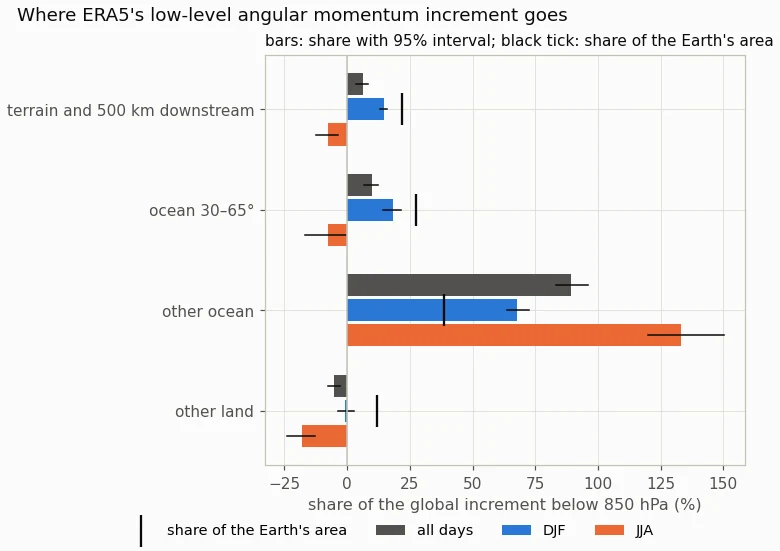
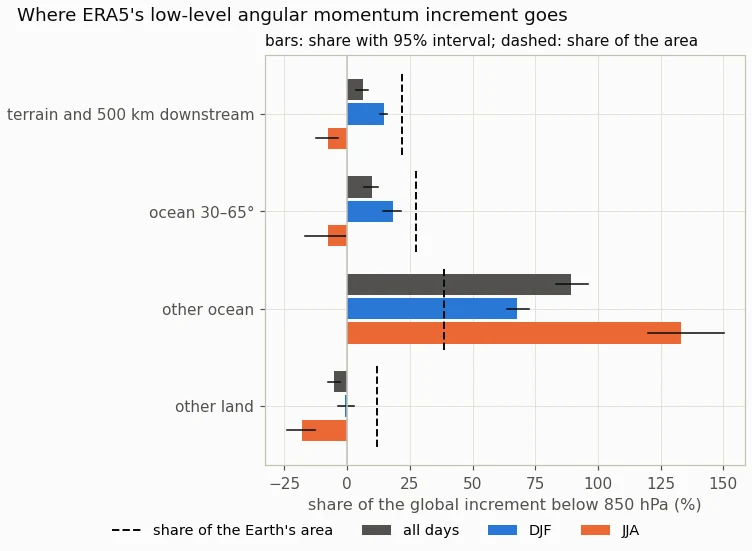
torque-enso: AAM peak lag in months, wording fixes, minus signs in the region table, area marker spans each group; page builder re-stamps chrome
Claude-Session: https://claude.ai/code/session_01XNh8pbXM7FCZppdye7QTLx

diff --git a/torque-enso.html b/torque-enso.html
@@ -304,7 +304,7 @@
   the middle latitudes of both hemispheres, from the surface to the tropopause (Seager et al., 2003). By the thermal-wind relation a
   warmer tropics against cooler subtropics means stronger westerly shear on the equatorward side of the subtropical jets, so the
   westerlies in the upper troposphere strengthen there, in both hemispheres. In ERA5 the global angular momentum regressed on Niño-3.4
-  peaks 1 day after the Niño-3.4 anomaly at +0.69 ×10²⁵ kg m² s⁻¹ per kelvin, about
+  peaks 1 month after the Niño-3.4 anomaly at +0.69 ×10²⁵ kg m² s⁻¹ per kelvin, about
   0.11 ms of length of day per kelvin.</p>
   <p><b>How the momentum gets in.</b> All of it has to come through the surface:</p>
   <p>$$\frac{dM}{dt} = T_{\text{mountain}} + T_{\text{friction}} + T_{\text{gravity-wave drag}},\qquad
@@ -523,7 +523,7 @@
   <figure id='fig13'><a href='/studies/torque-enso/inc_section.webp' class='zoom'><img src='/studies/torque-enso/inc_section.webp' alt="Latitude by pressure sections of the wind-term angular momentum increment per layer at the two window starts, troposphere and stratosphere on separate scales" loading='lazy'></a><figcaption><b>Figure 13.</b> The wind-term increment by latitude and layer at the two window starts: the angular momentum each 5° band and pressure layer gains, in units that sum to the column. Below: 1000–100 hPa on an axis linear in pressure (so in mass); above it, 100–1 hPa on its own scale. Hatched where not significant (10-day block bootstrap, FDR 10% over the cells with data).</figcaption></figure>
   <p><b>By height.</b> The vertical sum of the 37-level increment follows the column estimate from the surface fields closely (correlation
   0.997 across bands and days) but is about 15% larger (+0.058 against
-  +0.050 per window), as expected from summing 37 pressure levels with their lowest layer clipped at the surface rather than
+  +0.050 per window), probably from summing 37 pressure levels with their lowest layer clipped at the surface rather than
   integrating the model levels exactly. Of the wind-term increment, the largest share goes into the layers below 850 hPa
   (79% and 77% of the section's cells with data are significant):</p>
   <div class='tw'><table class='res'><thead><tr><th>wind-term increment, 10²⁵ kg m² s⁻¹ per window</th><th>09 UTC start</th><th>21 UTC start</th></tr></thead><tbody><tr><th scope='row'>stratosphere (above 100 hPa)</th><td>+0.005 <span class='sig'>[+0.004, +0.006]</span></td><td>+0.005 <span class='sig'>[+0.004, +0.006]</span></td></tr><tr><th scope='row'>upper troposphere (100–400 hPa)</th><td>+0.011 <span class='sig'>[+0.008, +0.014]</span></td><td>+0.017 <span class='sig'>[+0.014, +0.020]</span></td></tr><tr><th scope='row'>middle troposphere (400–850 hPa)</th><td>+0.011 <span class='sig'>[+0.007, +0.014]</span></td><td>+0.013 <span class='sig'>[+0.008, +0.019]</span></td></tr><tr><th scope='row'>below 850 hPa</th><td>+0.030 <span class='sig'>[+0.028, +0.032]</span></td><td>+0.022 <span class='sig'>[+0.020, +0.025]</span></td></tr><tr class='diff'><th scope='row'>all 37 levels</th><td>+0.057</td><td>+0.058</td></tr></tbody></table></div>
@@ -537,16 +537,16 @@
   <h3>Where the low-level increment goes</h3>
   <figure id='fig14'><a href='/studies/torque-enso/inc_maps_u.webp' class='zoom'><img src='/studies/torque-enso/inc_maps_u.webp' alt="World maps of the mean zonal-wind increment at 925 and 850 hPa with terrain contours" loading='lazy'></a><figcaption><b>Figure 14.</b> The mean increment of the zonal wind at 925 hPa (top) and 850 hPa (bottom), both window starts together, per day; shaded only where significant (t-test with an effective sample size from the lag-one autocorrelation, FDR 10% over the map). Contours: terrain at 500, 1500 and 3000 m.</figcaption></figure>
   <figure id='fig15'><a href='/studies/torque-enso/inc_maps_amL_season.webp' class='zoom'><img src='/studies/torque-enso/inc_maps_amL_season.webp' alt="World maps of the angular momentum increment of the layers at and below 850 hPa in December to February and June to August" loading='lazy'></a><figcaption><b>Figure 15.</b> The angular momentum increment of the layers at and below 850 hPa, per 2.5° cell and day, in DJF (top) and JJA (bottom); shaded only where significant (FDR 10%). Terrain contours as in the previous figure.</figcaption></figure>
-  <p>The maps test the user-facing hypothesis directly: if ERA5's model lost momentum mainly to excess low-level orographic drag
+  <p>The maps test the drag hypothesis directly: if ERA5's model lost momentum mainly to excess low-level orographic drag
   (blocking and turbulent orographic form drag), the low-level increments would sit over and just downstream of the Rockies, the Andes,
   Tibet, the East African highlands and the Antarctic margins. They do not. At 925 hPa the analysis adds westerly momentum over most of
-  the trade-wind oceans and the Southern Ocean; at 850 hPa it removes it over the subtropical oceans, the upper half of the dipole in
+  the trade-wind oceans and around Antarctica; at 850 hPa it removes it over the subtropical oceans, the upper half of the dipole in
   Figure 13. In the zonal mean the 1000 hPa wind is increased by +0.31 m s⁻¹ a day at 10–30° (weaker trade
   easterlies) and decreased by −0.14 m s⁻¹ at 40–60° (weaker surface westerlies); the 10 m wind likewise
   (+0.18 and −0.11). Over the mid-latitude oceans the analysis adds westerlies from 925 hPa up
   (+0.08 m s⁻¹ a day at 40–60°), while at 850 hPa between 40 and 55°N it removes them (−0.11).</p>
-  <figure id='fig16'><a href='/studies/torque-enso/inc_maps_split.webp' class='zoom'><img src='/studies/torque-enso/inc_maps_split.webp' alt="Bar chart of the share of the global low-level angular momentum increment falling in four regions, for all days, DJF and JJA, against each region's share of the Earth's area" loading='lazy'></a><figcaption><b>Figure 16.</b> The share of the global increment of angular momentum below 850 hPa that falls in each region, all days and by season, with 95% block-bootstrap intervals over days; the black ticks mark each region's share of the Earth's area. Regions are defined at 0.25° from ERA5's orography, its subgrid-orography standard deviation and its land-sea mask.</figcaption></figure>
-  <div class='tw'><table class='res'><thead><tr><th>share of the increment</th><th>area</th><th>below 850 hPa, all days</th><th>DJF</th><th>JJA</th><th>whole column</th></tr></thead><tbody><tr><th scope='row'>terrain above 1000 m or rough subgrid orography, and 500 km downstream</th><td>22%</td><td>6% [4, 8]</td><td>15% [13, 16]</td><td>-7% [-12, -4]</td><td>14% [12, 15]</td></tr><tr><th scope='row'>ocean 30–65°</th><td>28%</td><td>10% [7, 12]</td><td>18% [14, 22]</td><td>-8% [-17, -0]</td><td>56% [54, 59]</td></tr><tr><th scope='row'>other ocean (tropics, subtropics, polar)</th><td>39%</td><td>89% [83, 96]</td><td>68% [64, 73]</td><td>133% [120, 150]</td><td>24% [21, 26]</td></tr><tr><th scope='row'>other land</th><td>12%</td><td>-5% [-8, -3]</td><td>-1% [-3, 3]</td><td>-18% [-24, -13]</td><td>6% [5, 8]</td></tr></tbody></table></div>
+  <figure id='fig16'><a href='/studies/torque-enso/inc_maps_split.webp' class='zoom'><img src='/studies/torque-enso/inc_maps_split.webp' alt="Bar chart of the share of the global low-level angular momentum increment falling in four regions, for all days, DJF and JJA, against each region's share of the Earth's area" loading='lazy'></a><figcaption><b>Figure 16.</b> The share of the global increment of angular momentum below 850 hPa that falls in each region, all days and by season, with 95% block-bootstrap intervals over days; the dashed lines mark each region's share of the Earth's area. Regions are defined at 0.25° from ERA5's orography, its subgrid-orography standard deviation and its land-sea mask.</figcaption></figure>
+  <div class='tw'><table class='res'><thead><tr><th>share of the increment</th><th>area</th><th>below 850 hPa, all days</th><th>DJF</th><th>JJA</th><th>whole column</th></tr></thead><tbody><tr><th scope='row'>terrain above 1000 m or rough subgrid orography, and 500 km downstream</th><td>22%</td><td>6% [4, 8]</td><td>15% [13, 16]</td><td>−7% [−12, −4]</td><td>14% [12, 15]</td></tr><tr><th scope='row'>ocean 30–65°</th><td>28%</td><td>10% [7, 12]</td><td>18% [14, 22]</td><td>−8% [−17, 0]</td><td>56% [54, 59]</td></tr><tr><th scope='row'>other ocean (tropics, subtropics, polar)</th><td>39%</td><td>89% [83, 96]</td><td>68% [64, 73]</td><td>133% [120, 150]</td><td>24% [21, 26]</td></tr><tr><th scope='row'>other land</th><td>12%</td><td>−5% [−8, −3]</td><td>−1% [−3, 3]</td><td>−18% [−24, −13]</td><td>6% [5, 8]</td></tr></tbody></table></div>
   <p class="tcap">"Rough terrain" is terrain above 1000 m or an ERA5 subgrid-orography standard deviation above 100 m, extended 500 km
   east (downstream); the four regions add up to the globe. With terrain above 1000 m alone the low-level share is
   3% [2, 4] (14% of the area); with the subgrid criterion alone 7% [4, 8]

diff --git a/scripts/mjo/src/torque_enso_page.py b/scripts/mjo/src/torque_enso_page.py
@@ -277,7 +277,9 @@ def main() -> int:
 
     def share(var, s, r):
         v = sp_[f"{var}_{s}_{r}"]
-        return f"{100 * v['share']:.0f}% [{100 * v['lo']:.0f}, {100 * v['hi']:.0f}]"
+        def pc(x):
+            return f"{round(100 * x) + 0:.0f}".replace("-", "−")
+        return f"{pc(v['share'])}% [{pc(v['lo'])}, {pc(v['hi'])}]"
     import xarray as xr
     zm = xr.open_dataset(S.REF / "torque_u37maps_2025_2026.nc")
     zlat = zm.lat.values
@@ -410,7 +412,7 @@ def main() -> int:
   the middle latitudes of both hemispheres, from the surface to the tropopause (Seager et al., 2003). By the thermal-wind relation a
   warmer tropics against cooler subtropics means stronger westerly shear on the equatorward side of the subtropical jets, so the
   westerlies in the upper troposphere strengthen there, in both hemispheres. In ERA5 the global angular momentum regressed on Niño-3.4
-  peaks {dd(aam_peak_lag)} after the Niño-3.4 anomaly at {num(aam_peak, 2)} ×10²⁵ kg m² s⁻¹ per kelvin, about
+  peaks {abs(aam_peak_lag)} month{'' if abs(aam_peak_lag) == 1 else 's'} {'after' if aam_peak_lag > 0 else 'before'} the Niño-3.4 anomaly at {num(aam_peak, 2)} ×10²⁵ kg m² s⁻¹ per kelvin, about
   {aam_peak * LODMS:.2f} ms of length of day per kelvin.</p>
   <p><b>How the momentum gets in.</b> All of it has to come through the surface:</p>
   <p>$$\\frac{{dM}}{{dt}} = T_{{\\text{{mountain}}}} + T_{{\\text{{friction}}}} + T_{{\\text{{gravity-wave drag}}}},\\qquad
@@ -629,7 +631,7 @@ def main() -> int:
   {fig("incsection", "inc_section.webp", "Latitude by pressure sections of the wind-term angular momentum increment per layer at the two window starts, troposphere and stratosphere on separate scales", "The wind-term increment by latitude and layer at the two window starts: the angular momentum each 5° band and pressure layer gains, in units that sum to the column. Below: 1000–100 hPa on an axis linear in pressure (so in mass); above it, 100–1 hPa on its own scale. Hatched where not significant (10-day block bootstrap, FDR 10% over the cells with data).")}
   <p><b>By height.</b> The vertical sum of the 37-level increment follows the column estimate from the surface fields closely (correlation
   {u10['corr_column_vs_2d']:.3f} across bands and days) but is about {100 * (col37 / col2d - 1):.0f}% larger ({num(col37, 3)} against
-  {num(col2d, 3)} per window), as expected from summing 37 pressure levels with their lowest layer clipped at the surface rather than
+  {num(col2d, 3)} per window), probably from summing 37 pressure levels with their lowest layer clipped at the surface rather than
   integrating the model levels exactly. Of the wind-term increment, the largest share goes into the layers below 850 hPa
   ({fsec.get('J10', 0):.0%} and {fsec.get('J22', 0):.0%} of the section's cells with data are significant):</p>
   {t_lay}
@@ -643,15 +645,15 @@ def main() -> int:
   <h3>Where the low-level increment goes</h3>
   {fig("mapsu", "inc_maps_u.webp", "World maps of the mean zonal-wind increment at 925 and 850 hPa with terrain contours", "The mean increment of the zonal wind at 925 hPa (top) and 850 hPa (bottom), both window starts together, per day; shaded only where significant (t-test with an effective sample size from the lag-one autocorrelation, FDR 10% over the map). Contours: terrain at 500, 1500 and 3000 m.")}
   {fig("mapsseason", "inc_maps_amL_season.webp", "World maps of the angular momentum increment of the layers at and below 850 hPa in December to February and June to August", "The angular momentum increment of the layers at and below 850 hPa, per 2.5° cell and day, in DJF (top) and JJA (bottom); shaded only where significant (FDR 10%). Terrain contours as in the previous figure.")}
-  <p>The maps test the user-facing hypothesis directly: if ERA5's model lost momentum mainly to excess low-level orographic drag
+  <p>The maps test the drag hypothesis directly: if ERA5's model lost momentum mainly to excess low-level orographic drag
   (blocking and turbulent orographic form drag), the low-level increments would sit over and just downstream of the Rockies, the Andes,
   Tibet, the East African highlands and the Antarctic margins. They do not. At 925 hPa the analysis adds westerly momentum over most of
-  the trade-wind oceans and the Southern Ocean; at 850 hPa it removes it over the subtropical oceans, the upper half of the dipole in
+  the trade-wind oceans and around Antarctica; at 850 hPa it removes it over the subtropical oceans, the upper half of the dipole in
   Figure {FN['incsection']}. In the zonal mean the 1000 hPa wind is increased by {num(u1000_trop, 2)} m s⁻¹ a day at 10–30° (weaker trade
   easterlies) and decreased by {num(u1000_mid, 2)} m s⁻¹ at 40–60° (weaker surface westerlies); the 10 m wind likewise
   ({num(u10_trop, 2)} and {num(u10_mid, 2)}). Over the mid-latitude oceans the analysis adds westerlies from 925 hPa up
   ({num(u925_mid, 2)} m s⁻¹ a day at 40–60°), while at 850 hPa between 40 and 55°N it removes them ({num(u850_nh, 2)}).</p>
-  {fig("mapssplit", "inc_maps_split.webp", "Bar chart of the share of the global low-level angular momentum increment falling in four regions, for all days, DJF and JJA, against each region's share of the Earth's area", "The share of the global increment of angular momentum below 850 hPa that falls in each region, all days and by season, with 95% block-bootstrap intervals over days; the black ticks mark each region's share of the Earth's area. Regions are defined at 0.25° from ERA5's orography, its subgrid-orography standard deviation and its land-sea mask.")}
+  {fig("mapssplit", "inc_maps_split.webp", "Bar chart of the share of the global low-level angular momentum increment falling in four regions, for all days, DJF and JJA, against each region's share of the Earth's area", "The share of the global increment of angular momentum below 850 hPa that falls in each region, all days and by season, with 95% block-bootstrap intervals over days; the dashed lines mark each region's share of the Earth's area. Regions are defined at 0.25° from ERA5's orography, its subgrid-orography standard deviation and its land-sea mask.")}
   {t_split}
   <p class="tcap">"Rough terrain" is terrain above 1000 m or an ERA5 subgrid-orography standard deviation above 100 m, extended 500 km
   east (downstream); the four regions add up to the globe. With terrain above 1000 m alone the low-level share is
@@ -882,6 +884,9 @@ def main() -> int:
         page = page.replace("<body>\n", "<body>\n" + old.split("<body>\n", 1)[1].split("<!-- sh:end -->", 1)[0] + "<!-- sh:end -->\n", 1)
     out.write_text(page)
     print("wrote", out)
+    sys.path.insert(0, str(site / "scripts" / "site"))
+    import apply_chrome                                                  # noqa: E402  (footer, rail.js, menus)
+    apply_chrome.stamp_all(only={"torque-enso.html"})
     return 0
 
 

diff --git a/scripts/mjo/src/torque_enso_figs.py b/scripts/mjo/src/torque_enso_figs.py
@@ -872,14 +872,14 @@ def site_increment_maps(data: Path, dest: Path):
                 ax.barh(yy, 100 * d["share"], height=0.22, color=cols[s], label={"ALL": "all days"}.get(s, s) if yi == y[0] else None)
                 ax.plot([100 * d["lo"], 100 * d["hi"]], [yy] * 2, color=INK, lw=1)
         for yi, (rk, lab) in zip(y, regs):
-            ax.scatter([100 * r["area"][rk]], [yi], marker="|", s=420, color=INK, zorder=4,
-                       label="share of the Earth's area" if yi == y[0] else None)
+            ax.plot([100 * r["area"][rk]] * 2, [yi - 0.42, yi + 0.42], ls="--", lw=1.3, color=INK, zorder=4,
+                    label="share of the Earth's area" if yi == y[0] else None)
         ax.set_yticks(y); ax.set_yticklabels([lab for _, lab in regs])
         ax.axvline(0, color="#c3c2b7", lw=1)
         ax.set_xlabel("share of the global increment below 850 hPa (%)")
         fig.legend(*ax.get_legend_handles_labels(), loc="outside lower center", ncol=4, frameon=False, fontsize=9.5)
         fig.suptitle("Where ERA5's low-level angular momentum increment goes", fontsize=12, color=INK, x=0.02, ha="left")
-        ax.set_title("bars: share with 95% interval; black tick: share of the Earth's area", loc="left", fontsize=10)
+        ax.set_title("bars: share with 95% interval; dashed: share of the area", loc="left", fontsize=10)
         fig.savefig(dest / "inc_maps_split.webp", **WEBP)
         plt.close(fig)
 
